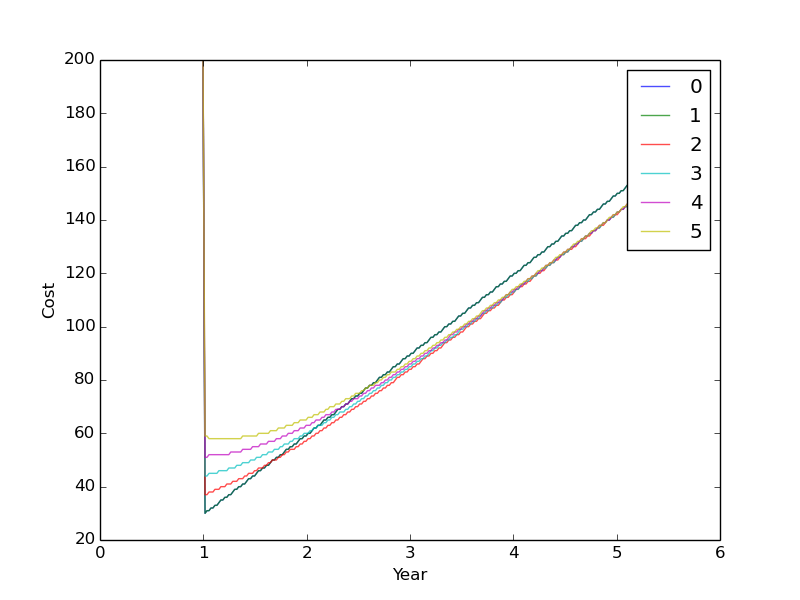
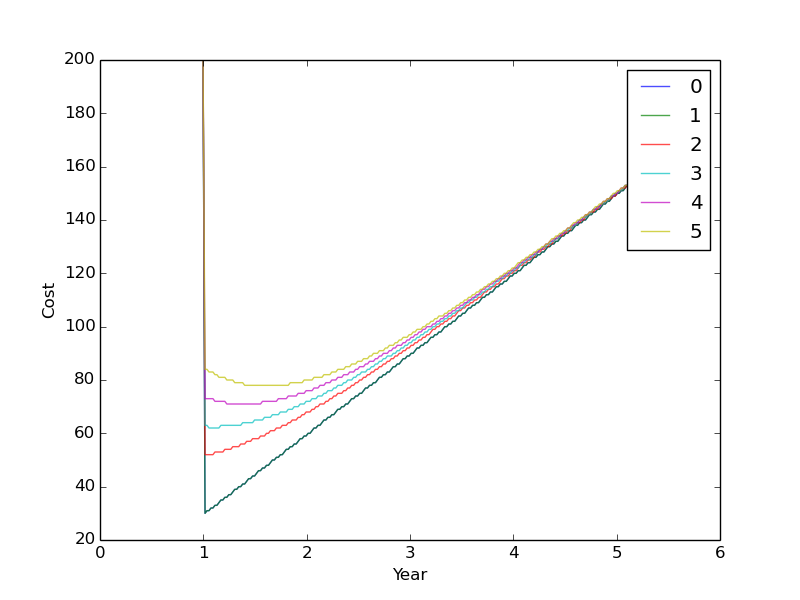
Young people are always given preference but cost keeps on reducing as year passes by.

Changed region(s): [[0.25, 0.3, 0.7812, 0.84], [0.25, 0.6, 0.2812, 0.63]]

diff --git a/compute_cost.py b/compute_cost.py
@@ -28,7 +28,7 @@ def computeCost( currentDate, lastDate, nAWS ):
     else:
         cost = 3 * nyears 
         if nAWS > 1:
-            cost +=  2 * nAWS  * math.exp( - nyears ) - 0.75
+            cost +=  3 * nAWS  * math.exp( - nyears ) 
 
     return int( 10 * max( 0, cost ))
 
